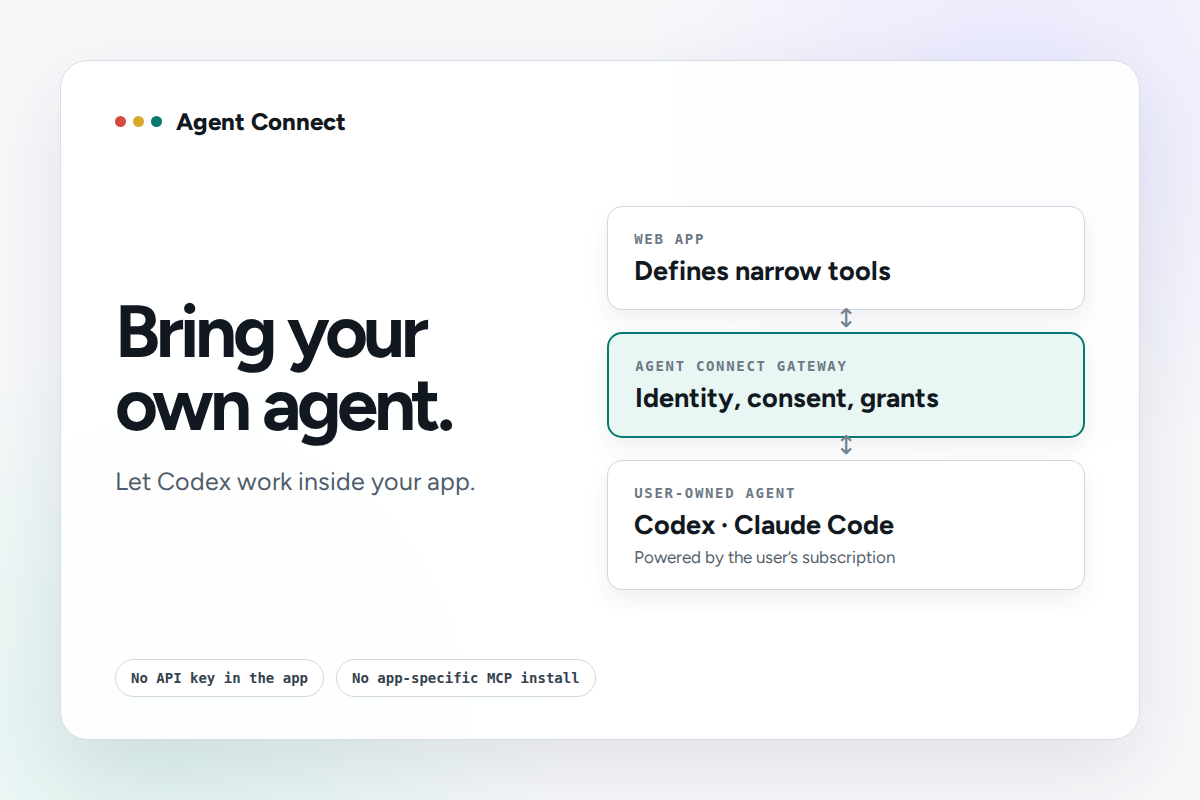
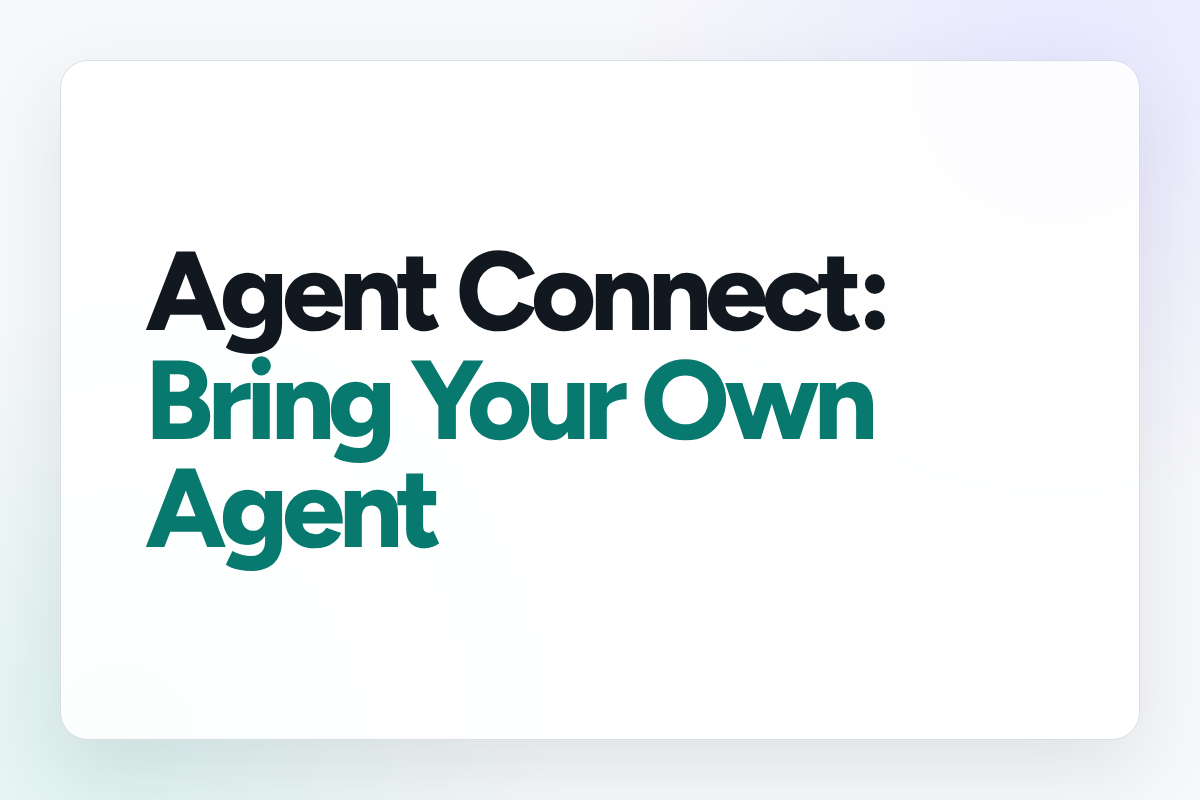
docs: simplify build week thumbnail

diff --git a/submission-assets/thumbnail.html b/submission-assets/thumbnail.html
@@ -13,12 +13,6 @@
           format("woff2-variations");
       }
 
-      :root {
-        font-family: "Figtree Variable", ui-sans-serif, system-ui, sans-serif;
-        color: #111820;
-        background: #f7f8fa;
-      }
-
       * {
         box-sizing: border-box;
       }
@@ -30,188 +24,44 @@
         height: 800px;
         margin: 0;
         overflow: hidden;
+        color: #111820;
         background:
-          radial-gradient(circle at 84% 15%, #e8e7ff 0, transparent 30%),
-          radial-gradient(circle at 14% 90%, #dff3ef 0, transparent 31%),
+          radial-gradient(circle at 88% 10%, #e8e7ff 0, transparent 34%),
+          radial-gradient(circle at 10% 92%, #dff3ef 0, transparent 34%),
           #f7f8fa;
+        font-family: "Figtree Variable", ui-sans-serif, system-ui, sans-serif;
       }
 
       main {
-        display: grid;
-        grid-template-rows: auto 1fr auto;
+        display: flex;
+        align-items: center;
         width: 1080px;
         height: 680px;
-        padding: 46px 54px 42px;
+        padding: 84px;
         border: 1px solid #d8dee5;
         border-radius: 28px;
         background: rgb(255 255 255 / 90%);
         box-shadow: 0 30px 80px rgb(30 42 54 / 10%);
       }
 
-      header {
-        display: flex;
-        align-items: center;
-        gap: 14px;
-        font-size: 24px;
-        font-weight: 760;
-      }
-
-      .dots {
-        display: flex;
-        gap: 7px;
-      }
-
-      .dot {
-        width: 11px;
-        height: 11px;
-        border-radius: 50%;
-      }
-
-      .dot:nth-child(1) {
-        background: #d34b3f;
-      }
-
-      .dot:nth-child(2) {
-        background: #d9a928;
-      }
-
-      .dot:nth-child(3) {
-        background: #08796e;
-      }
-
-      .hero {
-        display: grid;
-        grid-template-columns: 0.95fr 1.05fr;
-        align-items: center;
-        gap: 60px;
-      }
-
       h1 {
-        max-width: 520px;
+        max-width: 900px;
         margin: 0;
-        font-size: 74px;
-        line-height: 0.98;
+        font-size: 112px;
+        font-weight: 780;
+        line-height: 0.97;
         letter-spacing: -0.055em;
       }
 
-      .lead {
-        max-width: 470px;
-        margin: 24px 0 0;
-        color: #4f5d6b;
-        font-size: 25px;
-        line-height: 1.35;
-      }
-
-      .flow {
-        position: relative;
-        display: grid;
-        gap: 22px;
-      }
-
-      .node {
-        position: relative;
-        padding: 22px 26px;
-        border: 1px solid #cfd7df;
-        border-radius: 15px;
-        background: white;
-        box-shadow: 0 10px 22px rgb(32 45 58 / 7%);
-      }
-
-      .node::after {
-        position: absolute;
-        bottom: -25px;
-        left: 50%;
-        color: #73808d;
-        font-size: 26px;
-        content: "↕";
-        transform: translateX(-50%);
-      }
-
-      .node:last-child::after {
-        content: none;
-      }
-
-      .node.gateway {
-        border: 2px solid #08796e;
-        background: #e8f7f4;
-      }
-
-      .eyebrow {
-        color: #6c7884;
-        font-family: ui-monospace, "SFMono-Regular", Consolas, monospace;
-        font-size: 14px;
-        font-weight: 700;
-        letter-spacing: 0.12em;
-        text-transform: uppercase;
-      }
-
-      .node strong {
+      h1 span {
         display: block;
-        margin-top: 6px;
-        font-size: 27px;
-      }
-
-      .node p {
-        margin: 6px 0 0;
-        color: #53616e;
-        font-size: 17px;
-      }
-
-      footer {
-        display: flex;
-        gap: 12px;
-      }
-
-      .chip {
-        padding: 10px 15px;
-        border: 1px solid #d2d9e0;
-        border-radius: 999px;
-        color: #35424e;
-        background: white;
-        font-family: ui-monospace, "SFMono-Regular", Consolas, monospace;
-        font-size: 14px;
-        font-weight: 650;
+        color: #08796e;
       }
     </style>
   </head>
   <body>
     <main>
-      <header>
-        <span class="dots" aria-hidden="true">
-          <span class="dot"></span>
-          <span class="dot"></span>
-          <span class="dot"></span>
-        </span>
-        Agent Connect
-      </header>
-
-      <section class="hero">
-        <div>
-          <h1>Bring your own agent.</h1>
-          <p class="lead">Let Codex work inside your app.</p>
-        </div>
-
-        <div class="flow" aria-label="Agent Connect flow">
-          <article class="node">
-            <span class="eyebrow">Web app</span>
-            <strong>Defines narrow tools</strong>
-          </article>
-          <article class="node gateway">
-            <span class="eyebrow">Agent Connect gateway</span>
-            <strong>Identity, consent, grants</strong>
-          </article>
-          <article class="node">
-            <span class="eyebrow">User-owned agent</span>
-            <strong>Codex · Claude Code</strong>
-            <p>Powered by the user’s subscription</p>
-          </article>
-        </div>
-      </section>
-
-      <footer>
-        <span class="chip">No API key in the app</span>
-        <span class="chip">No app-specific MCP install</span>
-      </footer>
+      <h1>Agent Connect: <span>Bring Your Own Agent</span></h1>
     </main>
   </body>
 </html>
